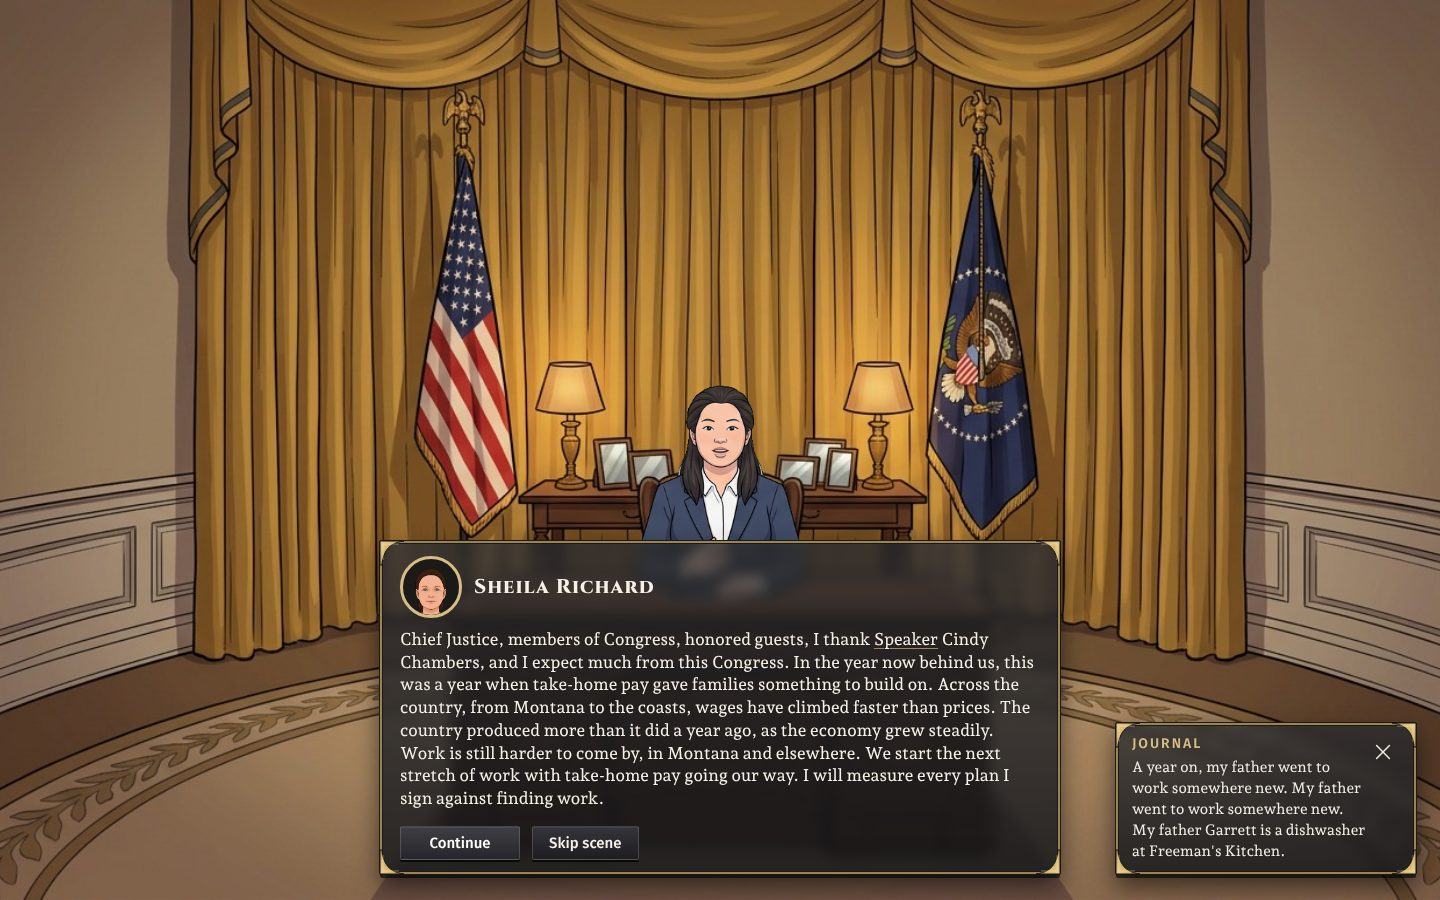
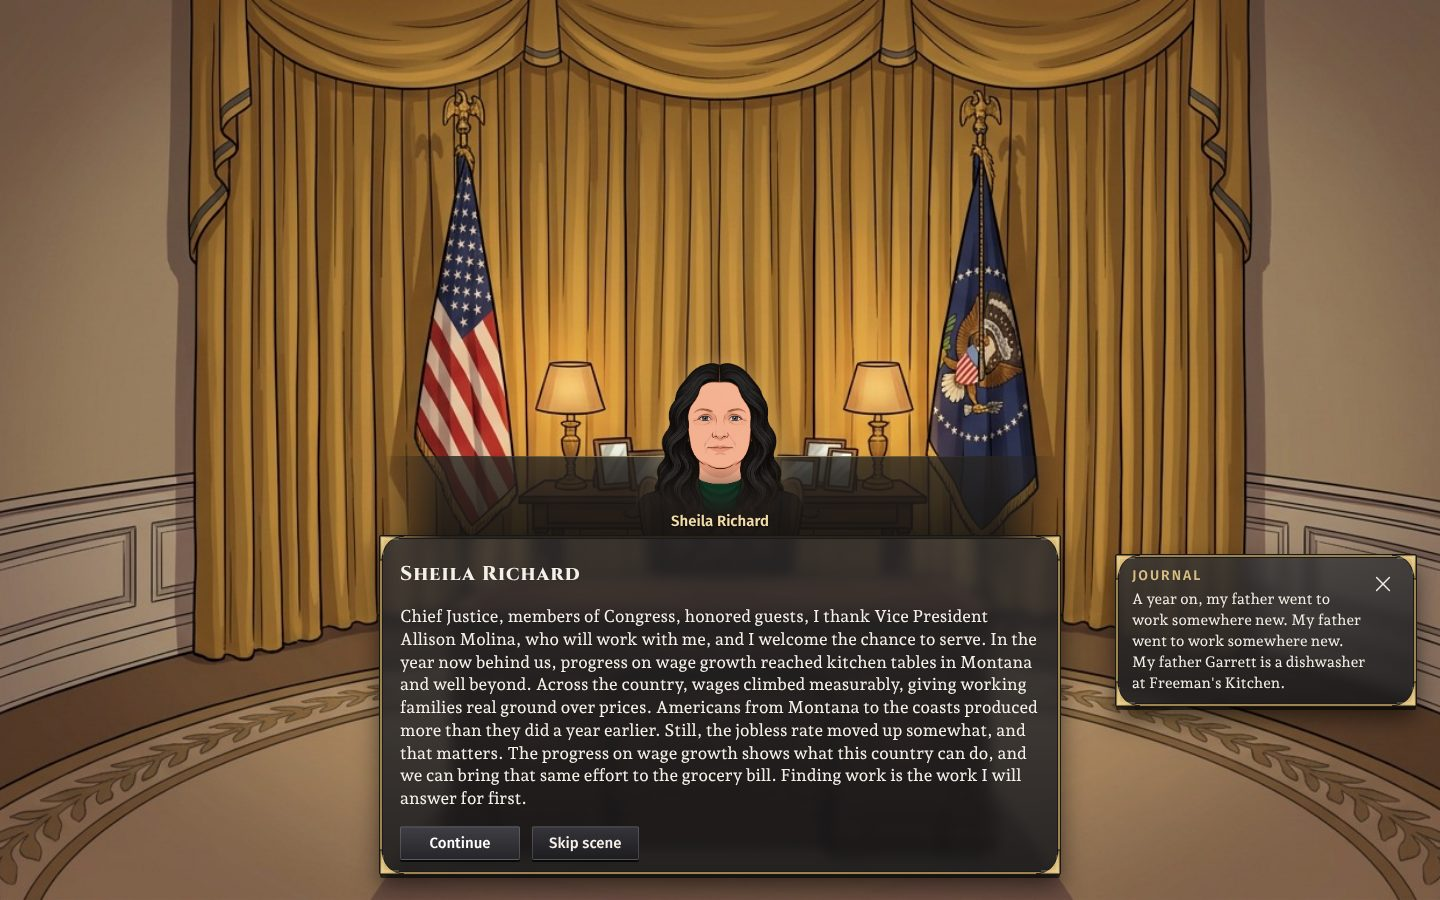
seen: the President's address retaken on the same three seeds after the second read
Claude-Session: https://claude.ai/code/session_01S4WSHpbwmeRwPL5LnADR55

Changed region(s): [[0.25, 0.4044, 0.75, 0.9022], [0.75, 0.5911, 1.0, 0.9956]]

diff --git a/docs/seen/opening-address/README.md b/docs/seen/opening-address/README.md
@@ -26,12 +26,20 @@ Across ten worlds drawn with the probe (places drawn by `drawPlace` on seeds e1 
 
 ## What each address now names from its own world
 
-- Gold Hill: the home state (Pennsylvania) twice, the Vice President (Thomas Houston) twice, the President's line on legal cannabis sales once, and how far the economy, prices and work moved, each once, in words.
-- Orchard Mesa: the home state (Montana), the Vice President (Allison Molina) and the Speaker (Cindy Chambers), each twice at most.
-- Lyons: the Speaker (Carol Lee), the Vice President (Patricia Parker) and the home state (South Carolina), each twice at most.
+- Gold Hill: the home state (Pennsylvania), the Vice President (Thomas Houston) and the Speaker (Lois Fuller), each at most twice; the President's line on legal cannabis sales once; the economy, prices and work each moved once, in words.
+- Orchard Mesa: the home state (Montana), the Vice President (Allison Molina) and the Speaker (Cindy Chambers), each at most twice.
+- Lyons: the home state (South Carolina), the Vice President (Patricia Parker) and the Speaker (Carol Lee), each at most twice.
 
-## Retaken after the words lead's read (Nov 11, #8743)
+## Retaken after the words lead's two reads (Nov 11, #8743)
 
-The "after" texts and pictures were retaken on the same seeds after four changes: lead-ins only say who is spoken to, when or where, and none is said twice; a priority is one sentence, led in by its rank; a subject's movement is told once, and a pledge says what the President will do; no name is said more than twice. None of the three has a colon lead-in. The addresses are shorter (13 to 15 sentences against 25 to 31), because each priority is now one sentence instead of four.
+The "after" texts and pictures were retaken on the same seeds after both reads:
+
+- Lead-ins only say who is spoken to, when or where. None is said twice, and a time lead-in is never joined to a core that names the same time.
+- A priority is one sentence, led in by its rank. Congress is sent "a bill on" a priority.
+- A subject's movement is told once. A pledge says what the President will do, naming its subject plainly.
+- The year's hard news and good news are worded apart ("a shrinking paycheck", "rising pay").
+- No name is said more than twice, and no subject's words more than three times.
+
+The addresses are shorter than before (13 to 16 sentences against 25 to 31), because each priority is now one sentence instead of four.
 
 The test `src/director/opening-address-versions.test.ts` checks all of this on ten drawn worlds every run.
